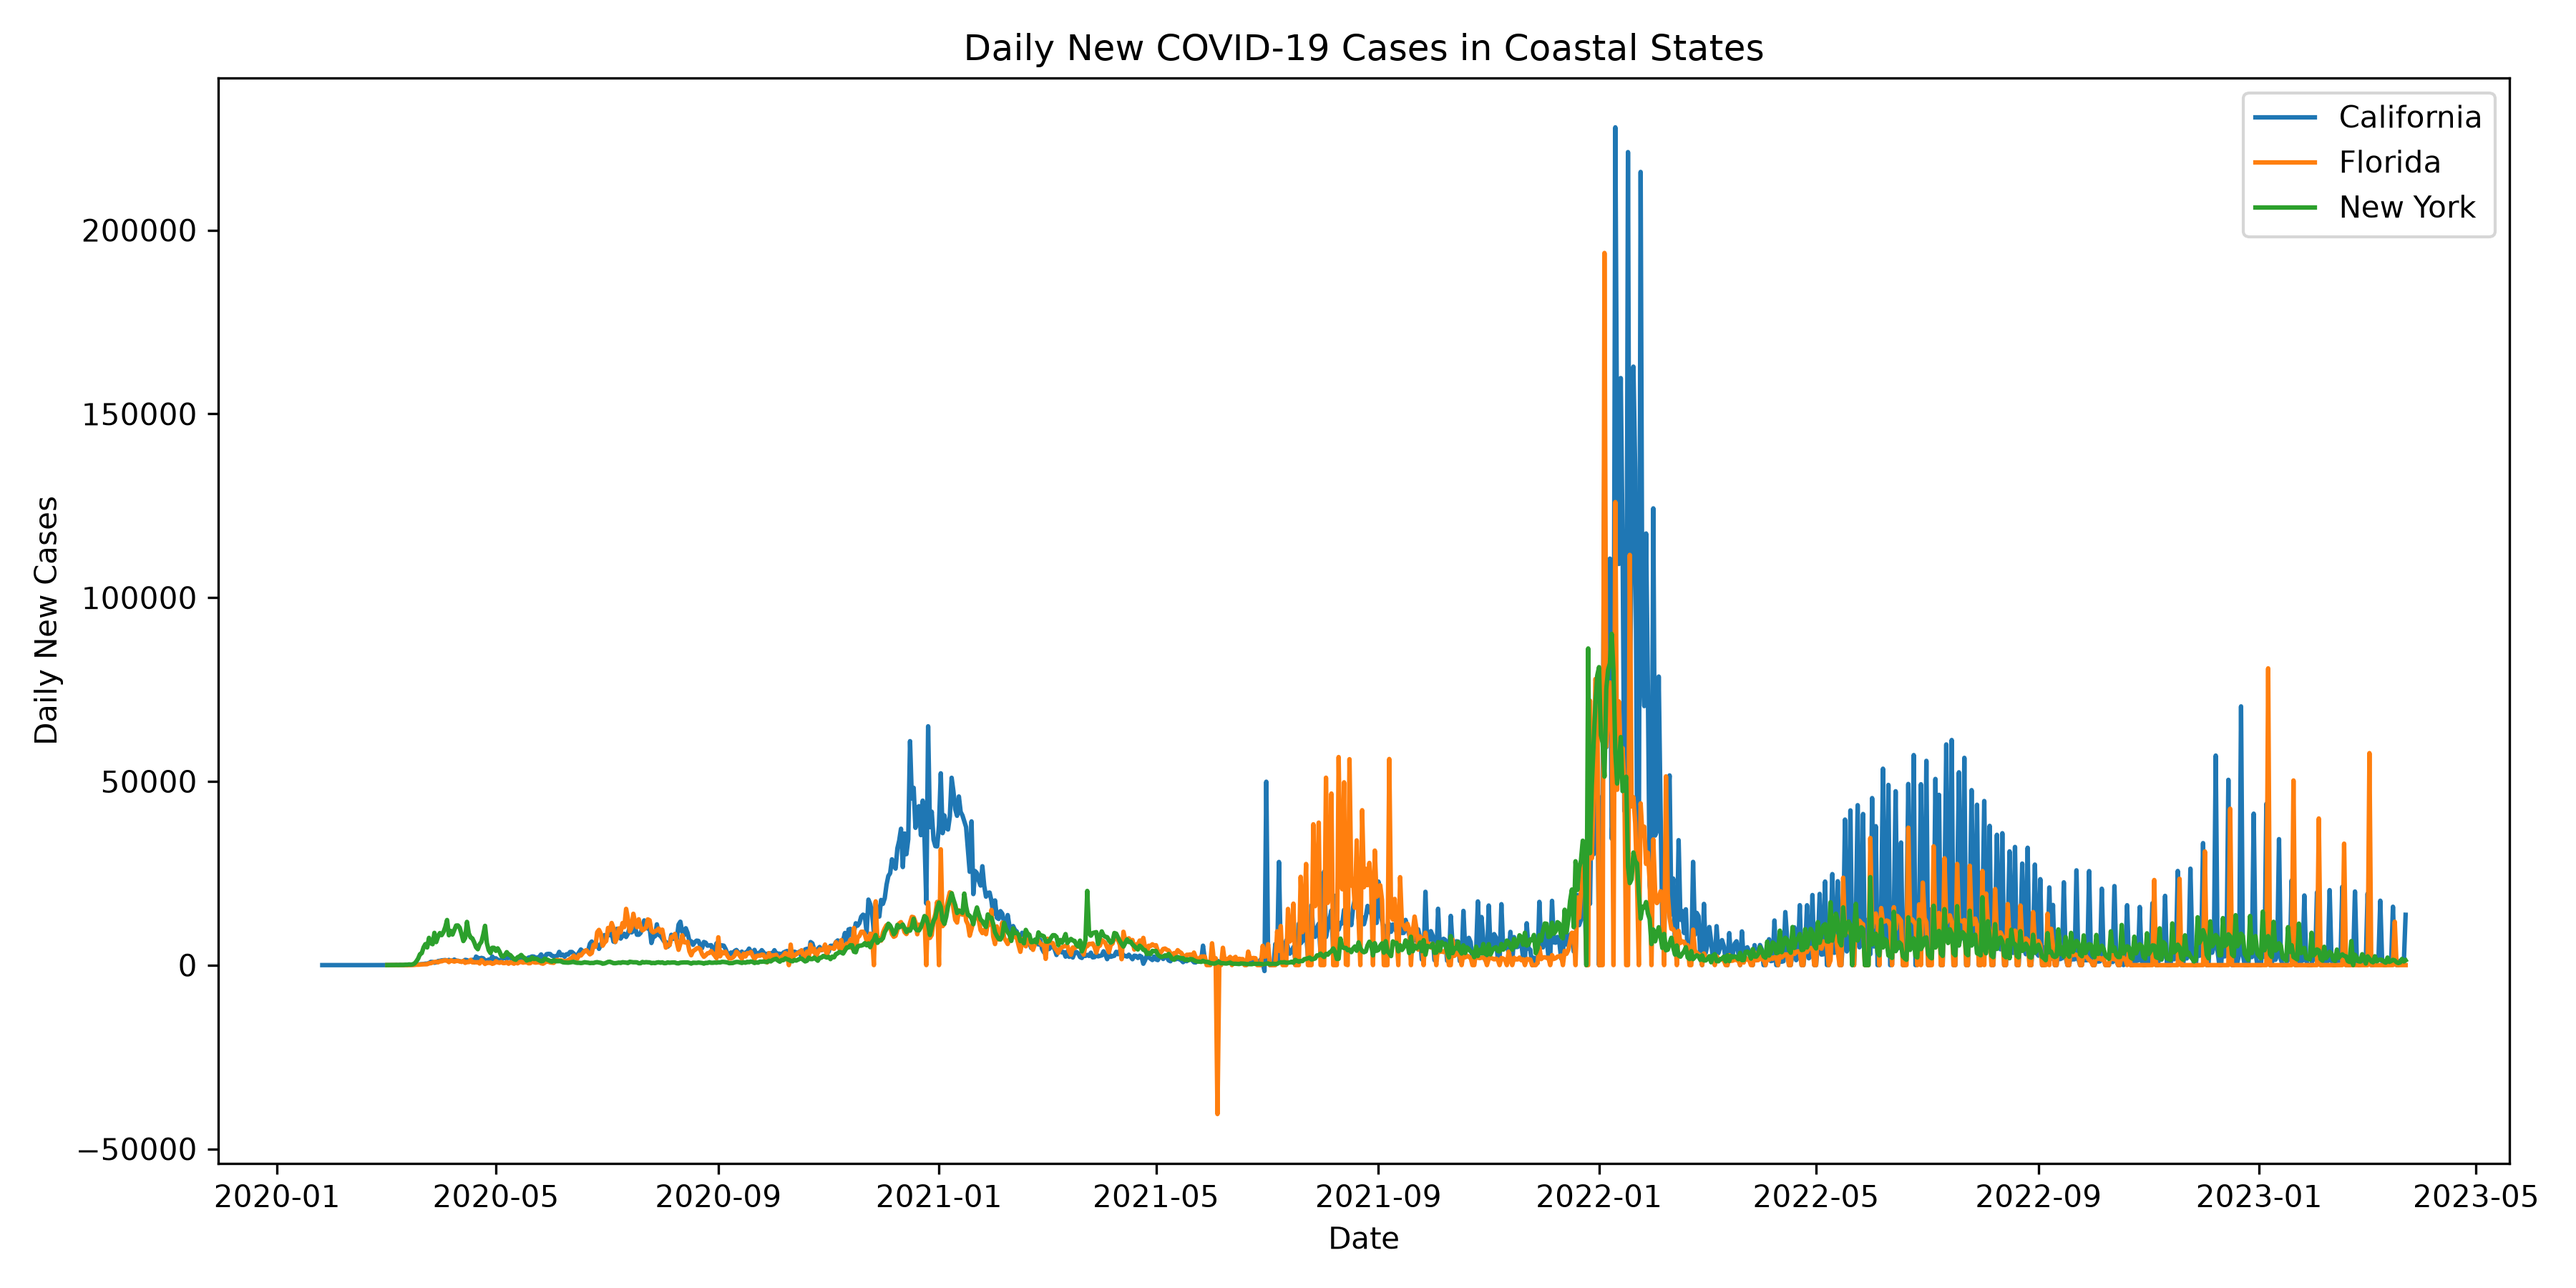
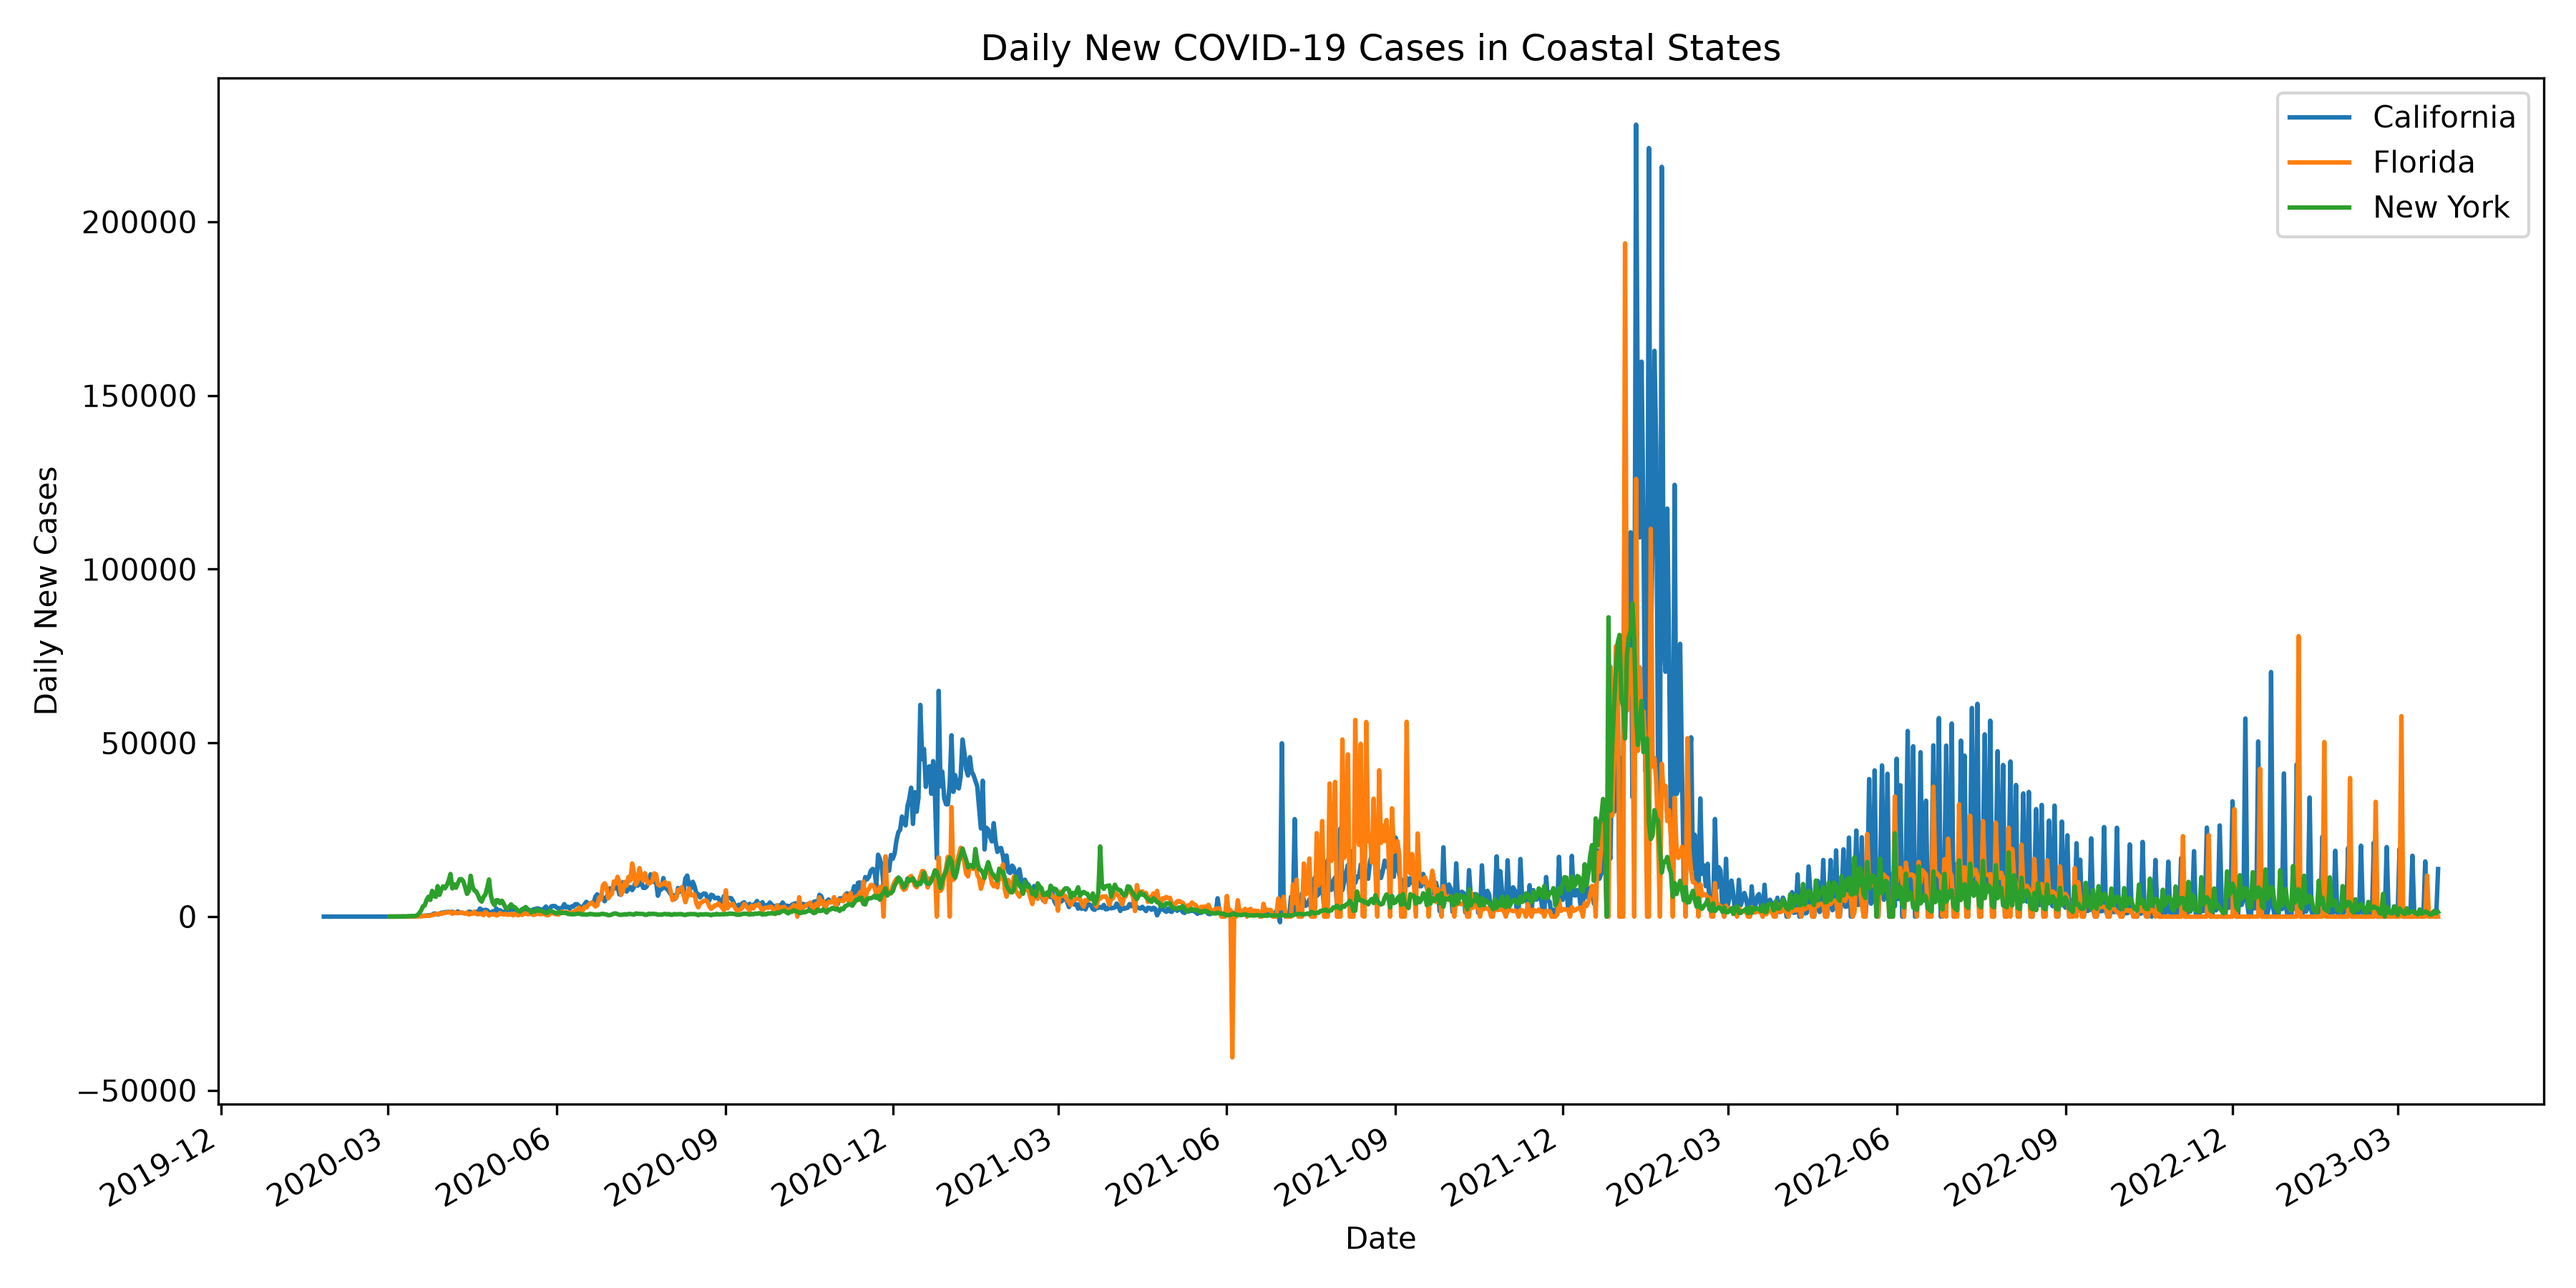
Complete BIS 634 portfolio documentation and figures

diff --git a/standards_population/code.py b/standards_population/code.py
@@ -1,9 +1,12 @@
 import json
 import statistics
 import matplotlib.pyplot as plt
+from pathlib import Path
+
+PROJECT_DIR = Path(__file__).resolve().parent
 
 # 2b.
-with open("population.json") as f:
+with open(PROJECT_DIR / "population.json") as f:
     population = json.load(f)
 
 ages = [person["demographics"]["age"] for person in population]
@@ -20,12 +23,15 @@ print("Maximum:", max(ages))
 #     plt.ylabel("Number of people")
 #     plt.show()
 
-# Final histogram: 15 bins
-plt.hist(ages, bins=15)
-plt.title("Age distribution (15 bins)")
+# Final histogram: 10 bins
+plt.figure(figsize=(8, 5))
+plt.hist(ages, bins=10)
+plt.title("Age distribution (10 bins)")
 plt.xlabel("Age")
 plt.ylabel("Number of people")
-plt.show()
+plt.tight_layout()
+plt.savefig(PROJECT_DIR / "age_distribution.png", dpi=200)
+plt.close()
 
 
 # 2c. 
@@ -44,18 +50,24 @@ print("Maximum:", max(weights))
 #     plt.show()
 
 # Final histogram: 30 bins
+plt.figure(figsize=(8, 5))
 plt.hist(weights, bins=30)
 plt.title(f"Weight distribution (30 bins)")
 plt.xlabel("Weight")
 plt.ylabel("Number of people")
-plt.show()
+plt.tight_layout()
+plt.savefig(PROJECT_DIR / "weight_distribution.png", dpi=200)
+plt.close()
 
 #2d.
+plt.figure(figsize=(8, 5))
 plt.scatter(ages, weights, s=1)
 plt.title("Weight versus age")
 plt.xlabel("Age")
 plt.ylabel("Weight")
-plt.show()
+plt.tight_layout()
+plt.savefig(PROJECT_DIR / "weight_vs_age.png", dpi=200)
+plt.close()
 
 for person in population:
     age = person["demographics"]["age"]

diff --git a/standards_covid19/covid_analysis.py b/standards_covid19/covid_analysis.py
@@ -28,6 +28,9 @@ def plot_daily_cases(states):
     plt.xlabel("Date")
     plt.ylabel("Daily New Cases")
     plt.legend()
+    plt.gca().xaxis.set_major_locator(mdates.MonthLocator(interval=3))
+    plt.gca().xaxis.set_major_formatter(mdates.DateFormatter("%Y-%m"))
+    plt.gcf().autofmt_xdate()
     plt.tight_layout()
     output_path = PROJECT_DIR / "daily_cases_comparison.png"
     plt.savefig(output_path, dpi=300)

diff --git a/dataStructure_patient/code.py b/dataStructure_patient/code.py
@@ -16,6 +16,10 @@ for patient in patients:
     age = patient.attrib["age"]
     ages.append(float(age))
 
+age_counts = Counter(ages)
+duplicate_age_values = sum(count > 1 for count in age_counts.values())
+print("Exact duplicate age values:", duplicate_age_values)
+
 plt.hist(ages, bins=10)
 plt.xlabel("Age")
 plt.ylabel("Number of Patients")

diff --git a/dataStructure_patient/README.md b/dataStructure_patient/README.md
@@ -11,6 +11,10 @@ This project analyzes an XML patient dataset using sorting, binary search, and p
 
 Run `python3 code.py` from this directory. The script resolves `patients.xml` and its image outputs relative to the script location, so it also works when launched from another working directory.
 
+## Development from studio work
+
+The initial studio work focused on parsing the XML file and inspecting ages. The final version adds saved demographic figures, a sorted age index, a single-pass second-oldest search, left-bound binary search for exact and in-between targets, range-count queries, and a male prefix sum for efficient multi-criteria queries.
+
 ## Analysis
 
 ### Histogram of patient ages
@@ -23,14 +27,22 @@ Histograms with 5, 10, and 20 bins were explored. Ten bins were selected because
 
 Gender is stored as an attribute on each `<patient>` record rather than as a nested element. A bar chart was used because gender is categorical data.
 
+The dataset contains three gender categories: `female`, `male`, and `unknown`.
+
 ![Bar of Gender distribution](gender_bar.png)
 
 ### Sorting and top-k retrieval
 
 `get_age()` extracts and converts the XML `age` attribute to a float, which enables numeric sorting from youngest to oldest. For a one-time second-oldest query, an O(n) single-pass approach avoids sorting. For repeated ordered queries, one O(n log n) sort enables O(1) position lookups.
 
+The code identifies Monica Caponera (age 84.99855742449432) as the oldest patient and Raymond Leigh (age 84.9982928781625) as the second-oldest patient.
+
 ### Binary search and range queries
 
 The left-bound binary search finds the first position where age 41.5 can be inserted while preserving order. It therefore returns the first exact match, if present, or a consistent insertion point otherwise. The number of patients aged 41.5 or older is computed as `len(age_index) - target_index` after the O(log n) lookup.
+
+### Duplicate-age check
+
+The 324,357 patient records contain no exact duplicate floating-point age values: every age occurs once. The left-bound binary-search design nevertheless handles duplicates correctly by returning the first matching position if a future dataset contains equal ages; for a target between values, it returns the consistent insertion point.
 
 For `[low_age, high_age)` queries, two binary searches locate the range bounds and their index difference gives the count. A male-patient prefix sum is constructed once in O(n); each age-and-gender query then uses two O(log n) searches and O(1) prefix-sum subtraction.

diff --git a/standards_population/README.md b/standards_population/README.md
@@ -6,9 +6,26 @@ This project analyzes a JSON population dataset containing demographic fields an
 
 - `code.py` — descriptive statistics, histograms, a weight-versus-age scatter plot, and outlier lookup.
 - `population.json` — source population records.
+- `age_distribution.png` — age histogram using 10 bins.
+- `weight_distribution.png` — weight histogram using 30 bins.
+- `weight_vs_age.png` — scatter plot used to inspect age-weight relationships.
 
-Run the code from this directory so the relative path to `population.json` resolves correctly. The current script displays figures interactively and does not write image files.
+Run `python3 code.py` from this directory. The script resolves paths relative to its own directory and saves all three figures listed above.
+
+## Development from studio work
+
+The initial exploration loaded the JSON data and inspected individual variables. The final version calculates descriptive statistics, compares alternative bin counts, saves the selected age and weight histograms, adds an age-weight scatter plot, and filters the data to identify the unusual adult record.
 
 ## Findings
 
-Age histograms showed a sharp decrease around age 70; ten bins were selected for a readable view of that pattern. Weight showed a sharp peak near 68, and 22,613 records have a weight of exactly 68.0. The age-versus-weight analysis identified one unusual adult observation: Anthony Freeman (ID 1002902), age 41.3 and weight 21.7. The record merits validation, but the plot alone cannot establish whether it is erroneous.
+The dataset contains 152,361 records. Each record has an `id`, `name`, `demographics` (`age`, `household_income_band`, `eyecolor`), and `last_measurements` (`weight`, `temperature`).
+
+Age has a mean of 39.51, standard deviation of 24.15, minimum of 0.0007, and maximum of 99.99. Ten bins were selected because they show the sharp decrease around age 70 while remaining readable. Weight has a mean of 60.88, standard deviation of 18.41, minimum of 3.38, and maximum of 100.44. Thirty bins show the sharp peak near 68; 22,613 records have a weight of exactly 68.0.
+
+The age-versus-weight analysis identified one unusual adult observation: Anthony Freeman (ID 1002902), age 41.3 and weight 21.7. The record merits validation, but the plot alone cannot establish whether it is erroneous.
+
+![Age distribution](age_distribution.png)
+
+![Weight distribution](weight_distribution.png)
+
+![Weight versus age](weight_vs_age.png)

diff --git a/bigData/README.md b/bigData/README.md
@@ -14,8 +14,21 @@ Run the code from this directory so its relative paths to `words.txt` and `typos
 
 ![Bloom filter evaluation results](bloom_filter_results.png)
 
+## Development from studio work
+
+The project began with a Bloom filter and one-character substitution lookup. It was extended to compare one, two, and three hash functions across multiple filter sizes, evaluate the supplied typo pairs with two explicit metrics, and preserve the experiment results in a reproducible log-scale figure.
+
 ## Discussion
 
 Bloom-filter membership responses can leak information about a vocabulary: a user can submit likely candidates and observe which ones pass. Increasing the number of hash functions reduced some false positives in this experiment, although it increases computation. Cryptographic hashes also do not prevent this membership-query leakage; they only provide hash values for setting and checking bits.
+
+For the `floeer` test, the correction function tries every one-character substitution and keeps candidates accepted by the filter. With one hash function, false positives such as `bloeer` can appear; requiring two or three independent hash checks removes many pseudo-matches while retaining valid words such as `flower` and `floter`.
+
+## Evaluation measures
+
+- **Misidentified Percent** is the fraction of misspelled inputs in `typos.json` that the filter incorrectly reports as valid vocabulary. It is calculated only on the typo subset.
+- **Good Suggestion Percent** is the fraction of all evaluation cases where the candidate list contains at most three suggestions and includes the known correct word.
+
+`code.py` calculates these measures for each filter size and hash count. `plot_result.py` renders the saved, log-scale comparison figure from the recorded experiment values.
 
 The Good Suggestion Rate exceeded 85% at approximately 250 million bits with one hash function, between 20 and 30 million bits with two hash functions, and 11 million bits with three hash functions. Allowing more edits expands the candidate space and can increase false positives.

diff --git a/standards_covid19/README.md b/standards_covid19/README.md
@@ -5,6 +5,8 @@ NetID: zz598
 
 This project analyzes reported daily COVID-19 cases in California, Florida, and New York from a state-level cumulative case and death time series.
 
+Data source: The New York Times COVID-19 data repository, `us-states.csv`. The dataset reports cumulative cases and deaths by state; the analysis derives daily new cases by differencing consecutive cumulative case totals.
+
 ## Contents
 
 - `covid_analysis.py` — calculates daily cases from cumulative totals, identifies peak dates, compares peak timing, checks Florida for negative daily counts, and saves the figure.
@@ -13,10 +15,16 @@ This project analyzes reported daily COVID-19 cases in California, Florida, and 
 
 Run `python3 covid_analysis.py` from this directory with `pandas` and `matplotlib` installed. The script resolves its data file relative to the script location and writes `daily_cases_comparison.png`.
 
+## Development from studio work
+
+The initial analysis loaded cumulative state totals and calculated daily differences. The final version organizes the work into reusable plotting and peak-date functions, compares California and New York peaks, checks Florida for negative daily values, formats the multi-year date axis, and saves the completed figure for the portfolio.
+
 ## Findings
 
 California's highest reported daily case count occurred on January 10, 2022. New York reached its daily-case peak before California. Florida includes a negative daily difference of -40,527 cases on June 4, 2021, which is best interpreted as a retrospective revision to a cumulative total rather than a real negative number of new cases.
 
 Reported daily counts can be affected by reporting delays and backlogs. The dataset does not provide contextual factors such as testing availability, exposure risk, or public-health policies, so the visualization cannot by itself explain why trends changed.
+
+The x-axis uses quarterly `YYYY-MM` labels so the multi-year time series remains readable.
 
 ![Daily new COVID-19 cases in coastal states](daily_cases_comparison.png)

diff --git a/README.md b/README.md
@@ -5,6 +5,8 @@ NetID: zz598
 
 This repository collects coursework for BIS 634: Computational Methods for Informatics. Each project keeps its code, data, figures, and project-specific documentation together.
 
+The project READMEs document each analysis's code evolution, design choices, trade-offs, limitations, and key findings. The sections below provide direct access to code, data, figures, and the fuller write-ups.
+
 ## Projects
 
 ### [Patient Data and Data Structures](dataStructure_patient/)
@@ -16,6 +18,14 @@ Patient-record analysis using XML, sorting, binary search, and prefix sums.
 - [Age histogram](dataStructure_patient/age_histogram.png)
 - [Gender bar chart](dataStructure_patient/gender_bar.png)
 - [Detailed analysis](dataStructure_patient/README.md)
+
+### [Algorithm Analysis and Performance Measurement](dataStructure_algorithm/)
+
+Empirical comparison of two sorting algorithms across chaotic, ordered, and reverse-ordered inputs using log-log runtime plots.
+
+- [Code](dataStructure_algorithm/code.py)
+- [Benchmark figure](dataStructure_algorithm/benchmark.png)
+- [Detailed analysis](dataStructure_algorithm/README.md)
 
 ### [Big Data and Bloom Filters](bigData/)
 
@@ -34,6 +44,9 @@ Descriptive analysis of a population JSON dataset, including age and weight dist
 
 - [Code](standards_population/code.py)
 - [Population data](standards_population/population.json)
+- [Age histogram](standards_population/age_distribution.png)
+- [Weight histogram](standards_population/weight_distribution.png)
+- [Age-weight scatter plot](standards_population/weight_vs_age.png)
 - [Detailed analysis](standards_population/README.md)
 
 ### [COVID-19 State-Level Data](standards_covid19/)

diff --git a/dataStructure_algorithm/README.md b/dataStructure_algorithm/README.md
@@ -1,4 +1,10 @@
-### 2a. 
+# Algorithm Analysis and Performance Measurement
+
+## Development from studio work
+
+The work progressed from small correctness checks for the two supplied sorting functions to timed experiments across chaotic, ordered, and reverse-ordered inputs. The final version separates data generation from timing, adds a log-log benchmark figure, and connects the observed scaling patterns to algorithm selection.
+
+### 2a.
 
 I tested `alg1` and `alg2` with four small lists:
 
